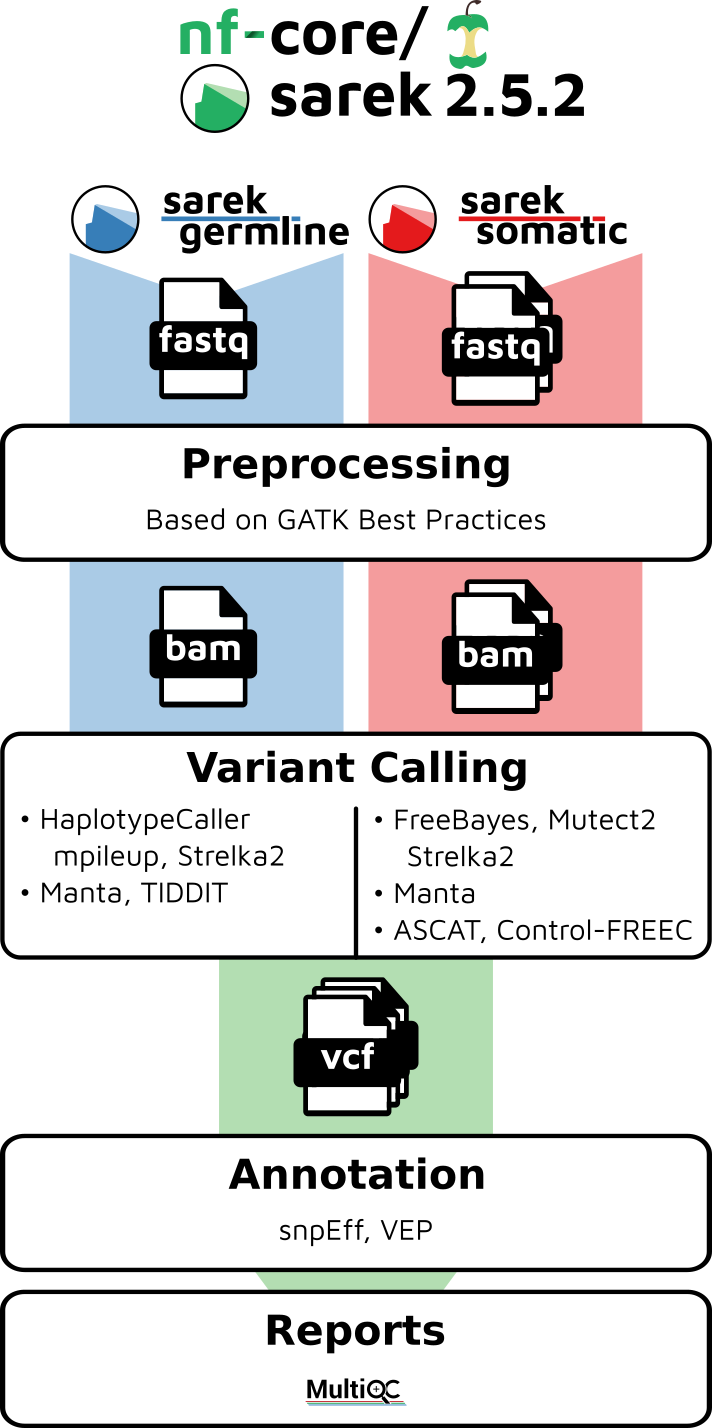
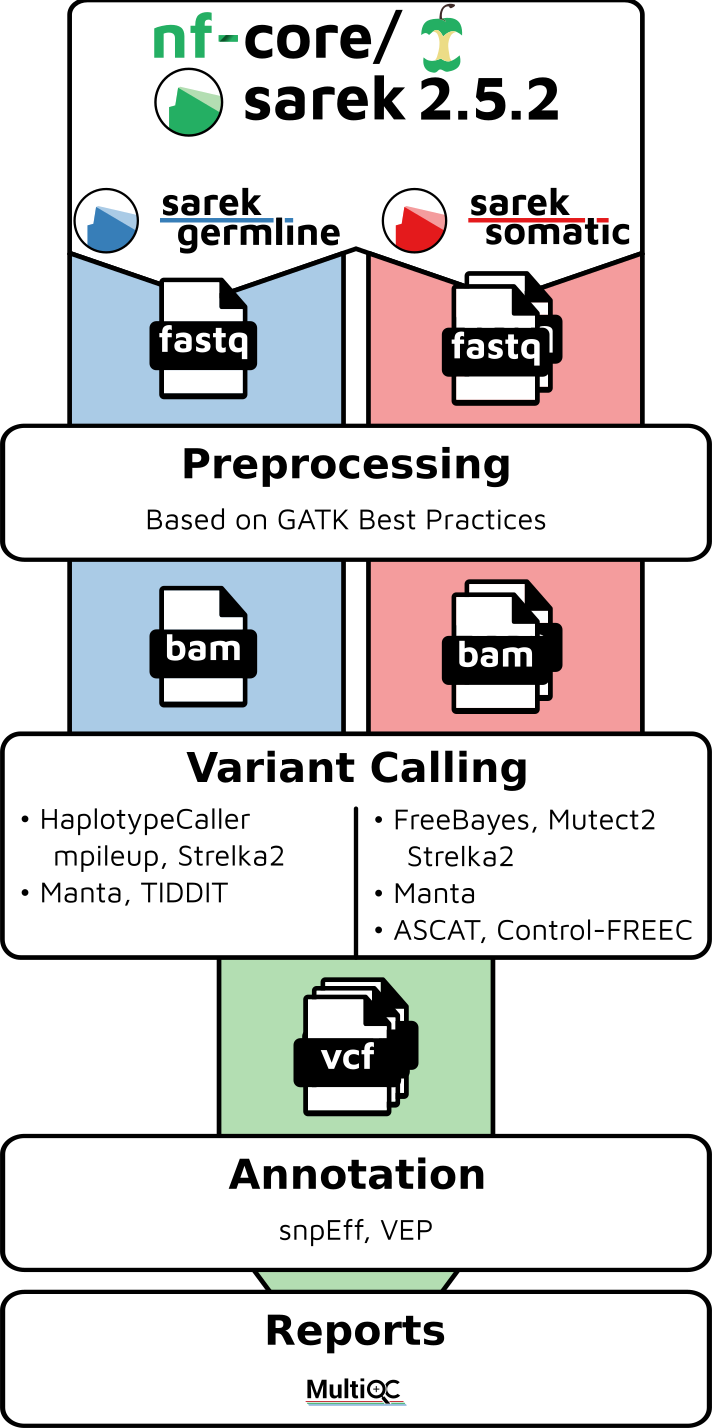
clean up and update workflow image

diff --git a/README.md b/README.md
@@ -27,7 +27,7 @@ Software dependencies are handled using [Conda](https://conda.io/), [Docker](htt
 Thus making installation trivial and results highly reproducible.
 
 <p align="center">
-    <img title="Sarek Workflow" src="./docs/images/sarek_workflow.png">
+    <a href="./docs/images/sarek_workflow.png"><img title="Sarek Workflow" src="./docs/images/sarek_workflow.png" width=10%></a>
 </p>
 
 It's listed on the [Elixir - Tools and Data Services Registry](https://bio.tools/Sarek), [Dockstore](https://dockstore.org/workflows/github.com/nf-core/sarek) and [omicX - Bioinformatics tools](https://omictools.com/sarek-tool).
